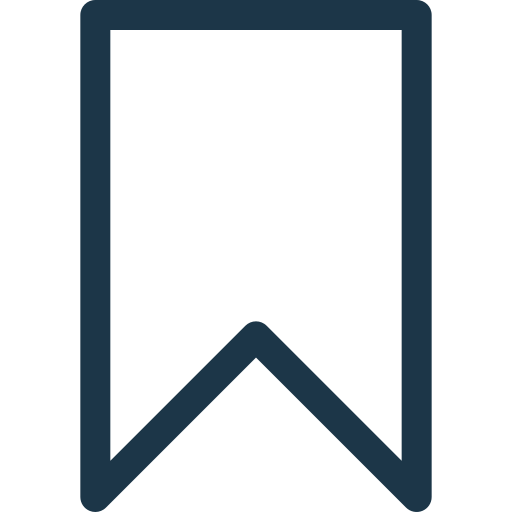
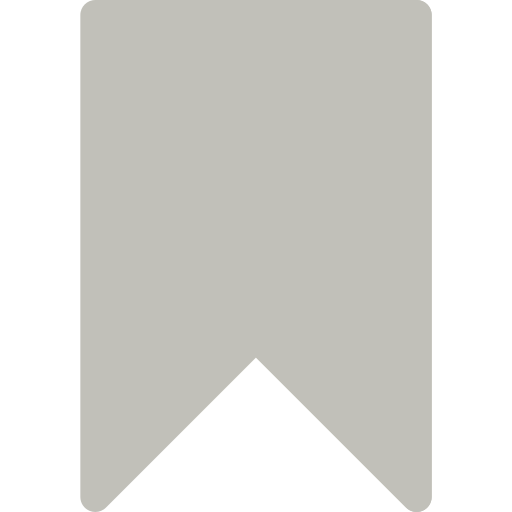
Add some Styling

diff --git a/frontend/src/pages/DetailsPage.js b/frontend/src/pages/DetailsPage.js
@@ -1,6 +1,5 @@
 import { useHistory, useParams } from "react-router-dom";
 import styled from "styled-components/macro";
-import Button from "../components/Button";
 import InfoLabels from "../components/InfoLabels";
 import { useQuery } from "react-query";
 import { loadCounselingCenterById } from "../service/CounselingCenterService";
@@ -8,6 +7,7 @@ import LoadingSpinner from "../components/LoadingSpinner";
 import { useContext } from "react";
 import AuthContext from "../context/AuthContext";
 import BookmarkButton from "../components/BookmarkButton";
+import backIcon from "../images/backIcon.png";
 
 export default function DetailsPage() {
   const history = useHistory();
@@ -29,9 +29,11 @@ export default function DetailsPage() {
 
   return (
     <Details>
-      <Button onClick={handleClick}>Zurück</Button>
-      <Wrapper>
+      <Headline onClick={handleClick}>
+        <img src={backIcon} alt="Back Icon" />
         <h3>{data.name}</h3>
+      </Headline>
+      <Wrapper>
         {userData && (
           <BookmarkButton
             marked={data.bookmarkedBy.includes(userData.sub)}
@@ -59,13 +61,30 @@ export default function DetailsPage() {
 
 const Wrapper = styled.div`
   overflow-wrap: anywhere;
-  h3 {
-    margin: 0;
-  }
+  margin: 0 30px;
 `;
 
 const Details = styled.div`
   display: flex;
   flex-direction: column;
   align-items: center;
+`;
+
+const Headline = styled.div`
+  width: 100%;
+  display: flex;
+  align-items: center;
+  justify-content: center;
+
+  img {
+    width: 20px;
+    height: 20px;
+    position: fixed;
+    left: 5px;
+  }
+
+  h3 {
+    margin: 0;
+    margin-left: 30px;
+  }
 `;

diff --git a/frontend/src/components/CounselingCenterCard.js b/frontend/src/components/CounselingCenterCard.js
@@ -1,6 +1,6 @@
 import styled from "styled-components/macro";
 import { useHistory } from "react-router-dom";
-import bookmark_marked from "../images/bookmark_marked_red.png";
+import bookmark_marked from "../images/bookmark_marked.png";
 import AuthContext from "../context/AuthContext";
 import { useContext } from "react";
 import bookmark_unmarked from "../images/bookmark_unmarked.png";
@@ -14,10 +14,15 @@ export default function CounselingCenterCard({ counselingCenter }) {
   return (
     <Wrapper onClick={handleClick}>
       <h3>{counselingCenter.name}</h3>
-      {counselingCenter.bookmarkedBy.includes(userData.sub) ? (
-        <img src={bookmark_marked} alt="red bookmark icon" />
-      ) : (
-        <img src={bookmark_unmarked} alt="bookmark icon with blue border" />
+
+      {userData && (
+        <>
+          {counselingCenter.bookmarkedBy.includes(userData.sub) ? (
+            <img src={bookmark_marked} alt="red bookmark icon" />
+          ) : (
+            <img src={bookmark_unmarked} alt="bookmark icon with blue border" />
+          )}
+        </>
       )}
     </Wrapper>
   );
@@ -39,6 +44,7 @@ const Wrapper = styled.button`
   img {
     width: 30px;
     height: 30px;
+    align-self: center;
   }
 
   &:hover {
@@ -47,7 +53,6 @@ const Wrapper = styled.button`
   }
 
   h3 {
-    display: inline-block;
-    width: 90%;
+    width: 100%;
   }
 `;

diff --git a/frontend/src/components/BookmarkButton.js b/frontend/src/components/BookmarkButton.js
@@ -2,7 +2,7 @@ import styled from "styled-components/macro";
 import { useMutation, useQueryClient } from "react-query";
 import { updateBookmarks } from "../service/BookmarkService";
 import bookmark_unmarked from "../images/bookmark_unmarked.png";
-import bookmark_marked from "../images/bookmark_marked_red.png";
+import bookmark_marked from "../images/bookmark_marked.png";
 
 export default function BookmarkButton({ marked, id, token }) {
   const queryClient = useQueryClient();
